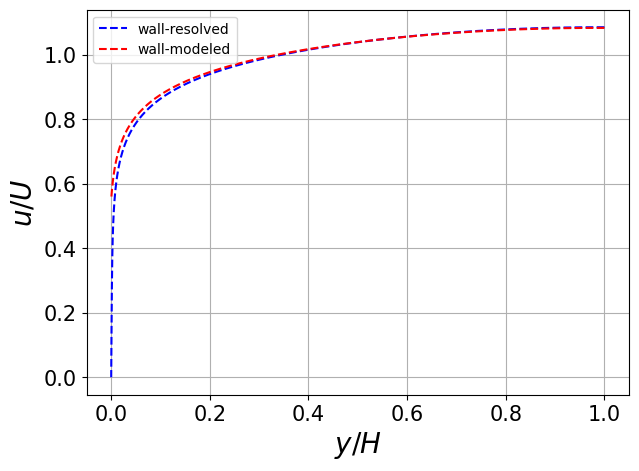
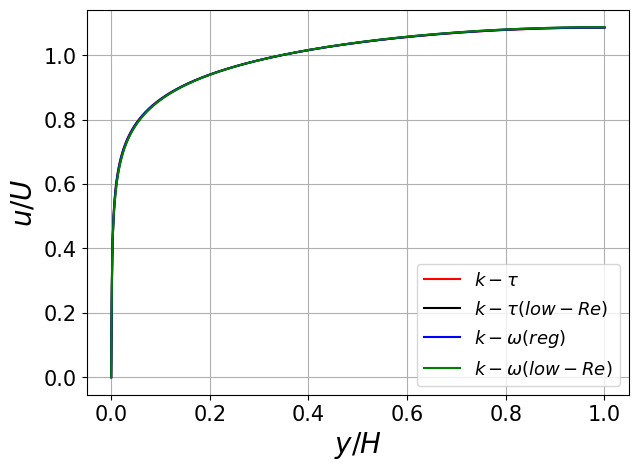
typo fix and polishing

diff --git a/source/tutorials/multi_rans.rst b/source/tutorials/multi_rans.rst
@@ -14,7 +14,7 @@ Nek5000 tools, procedures and user routines including,
  * ``exo2nek`` for importing third party mesh file to Nek5000
  * ``reatore2`` for converting ASCII Nek5000 mesh to binary format
  * ``gencon`` for generating mesh connectivity file
- * ``wiremesher`` for generating wire-wrapped pin bundle
+ * ``wiremesher`` for generating wire-wrapped pin bundle mesh
  * ``nekamg_setup`` for generating algebraic multi-grid solver (AMG) files
  * :math:`k-\tau` RANS simulation setup 
  *  ``NekNek`` setup
@@ -42,7 +42,7 @@ Extract the above tar file and navigate to the ``inlet_bundle`` (parent) directo
 	tar -xvf inlet_bundle.tar
 	cd inlet_bundle
 	
-It has the following structure, discussed in detail in the following sections:
+It has the following directories and files, discussed in detail in the following sections:
 
  * ``inletMesh`` --> Directory containing inlet mesh related files.
  * ``bundleMesh`` --> Directory containing pin-wire bundle mesh related files.
@@ -73,9 +73,13 @@ wire-wrapped pin bundle, as shown:
 The geometry is non-dimensionalized with respect to the pin diameter, :math:`D`. 
 Axial extent of the inlet nozzle component is :math:`z/D=[-4.75,0.25]` and the wire-pin bundle axial dimensions
 are :math:`z/D=[0,12.5]`.  The two components, therefore, have an axial overlap of :math:`\Delta z/D= 0.25`,
-while the lateral dimensions are conformal. Users should note that a reasonable overlap in the computational domains is imperative for a 
-robust ``NekNek`` simulation. As a general rule, increasing the extent of overlap will render more stability
-to the coupled solver. Pitch-to-diameter ratio of the wire-pin bundle is 1.13 and the wire diameter is 
+while the lateral dimensions are conformal. 
+
+:Note:
+	A reasonable overlap in the computational domains is imperative for a robust ``NekNek`` simulation.
+	As a general rule, increasing the extent of overlap will render more stability to the coupled solver.
+
+Pitch-to-diameter ratio of the wire-pin bundle is 1.13 and the wire diameter is 
 :math:`D_w=0.12875D`. To prevent sharp corners, a fillet of diameter :math:`0.05 D` is introduced between the 
 pin and the wire and the wire is slightly submerged in the pin by a distance of :math:`0.025D_w`.
 The side length of the hexagonal bundle is :math:`1.865D` and the diameter of the inlet nozzle boundary 
@@ -98,19 +102,19 @@ is specified on all remaining boundaries.
 
 .. table:: Flow and Thermal Properties 
 
-   +----------------------------+--------------------------------+
-   |:math:`Re_{in}`             |60000                           |
-   +----------------------------+--------------------------------+
-   |:math:`Re_{b}`              |10000 (approx)                  |
-   +----------------------------+--------------------------------+
-   |:math:`\nu^*`               |3.125e-5                        |
-   +----------------------------+--------------------------------+
-   |:math:`Pr`                  |0.005                           |
-   +----------------------------+--------------------------------+
-   |:math:`Pe`                  |160                             |
-   +----------------------------+--------------------------------+
-   |:math:`Pr_t`                |1.5                             |
-   +----------------------------+--------------------------------+
+   +--------------------------------------------------+--------------------------------+
+   |Inlet Reynolds number, :math:`Re_{in}`            |60000                           |
+   +--------------------------------------------------+--------------------------------+
+   |Bundle Reynolds number, :math:`Re_{b}`            |10000 (approx)                  |
+   +--------------------------------------------------+--------------------------------+
+   |Dimensionless Kinematic visocity, :math:`\nu^*`   |3.125e-5                        |
+   +--------------------------------------------------+--------------------------------+
+   |Prandtl Number, :math:`Pr`                        |0.005                           |
+   +--------------------------------------------------+--------------------------------+
+   |Peclet Number, :math:`Pe`                         |160                             |
+   +--------------------------------------------------+--------------------------------+
+   |Turbulent Prandtl number, :math:`Pr_t`            |1.5                             |
+   +--------------------------------------------------+--------------------------------+
 
 ..............................
 Mesh Generation
@@ -123,7 +127,7 @@ Inlet Nozzle (exo2nek)
 A third-party meshing tool (e.g., ANSYS ICEM) is required for generating the mesh for the inlet component,
 which must be saved as an ``EXODUS II (.exo)`` mesh file. Nek5000 offers the ``exo2nek`` mesh conversion tool
 for converting an ``.exo`` mesh file to ``.re2`` format. Ensure that the ``exo2nek`` tool is compiled, available
-in the  ``Nek5000`` directory:
+in the  ``Nek5000/tools`` directory:
 
 .. code-block:: console
 
@@ -292,7 +296,7 @@ control the mesh resolution and contribute towards a successful mesh, include:
  * ``Col`` --> Controls the resolution in the azimuthal direction.
  * ``Row`` --> Controls the resolution in radial direction. 
  * ``Rowdist`` --> Controls layer width distribution percentage in radial direction, from interior to pin wall. Must add up to 100 and entries must be equal to ``Row``.
- * ``Lay`` --> Controls resolution in axial direction. Specifies number of axial elements in length equal to 60 degree rotation of wire.  
+ * ``Lay`` --> Controls resolution in axial direction. Specifies number of elements in axial length equal to 60 degree rotation of wire.  
 
 The mesher is initiated by simply running the ``doall_binary`` bash file. Ensure that both Matlab and Python 
 (tested with Python 3.8) are active before launching the script and that Fortran compilers are available. 
@@ -315,7 +319,7 @@ ASCII mesh file for Nek5000. Convert this into the binary format by running ``re
 	bundle
 	
 We finally obtain the ``bundle.re2`` file which contains the pin-wire bundle mesh for Nek5000 run. Boundary IDs
-are assigned by the wire mesher as:
+are assigned by the ``wiremesher`` as:
 
  * 1 --> Fuel pin walls
  * 2 --> Bundle hexagonal (outer) walls
@@ -456,9 +460,11 @@ Parameter File (.par)
 	diffusivity = -32000.0
 	residualTol = 1.0e-6
 	
-Both parameter files are identical, except for one important difference. If the user wants to restart the case from
+Both parameter files are identical, except for one important difference. To restart the case from
 any given time, separate restart file names should be specified to the ``startFrom`` parameter. It is critical that the
-properties and time step size are identical for both ``.par`` files.
+properties and time step size are identical for both ``.par`` files. Values are assigned in dimensionless form;
+density is set to unity, viscosity and diffusivity are set to :math:`1/\nu^*` and conductivity to Peclet number 
+(-ve sign indicates that solver is run in dimensionless form).
 
 Note that given the large size of meshes, the ``preconditioner`` must be set to ``semg_amg``. This invokes the algebraic
 multigrid solver for pressure instead of the default ``XXT`` solver.
@@ -505,7 +511,7 @@ Following headers are required at the beginning of ``.usr`` file for loading RAN
 	end
 	
 ``ngeom`` specifies the number of overlapping Schwarz-like iterations, while ``ninter`` controls the time 
-extrapolation order of boundary conditions of the overlapping interface. ``ninter=1`` is unconditionally 
+extrapolation order of boundary conditions at the overlapping interface. ``ninter=1`` is unconditionally 
 stable, while a higher temporal order will typically require more iterations for stability (``ngeom>2``). 
 For computational savings, we maintain first order temporal extrapolation for this tutorial. 
 ``nfld_neknek`` specifies the number of total field arrays that are transferred between the two meshes 
@@ -603,16 +609,17 @@ Boundary Condition specification and RANS initialization is performed in ``usrda
 	end
 
 ``NekNek`` solver launches two Nek5000 sessions simultaneously and field data transfer is performed between the
-two sessions after each time iteration. Each session is assigned a unique id, stored in the variable ``idsess``.
+two sessions on each time iteration. Each session is assigned a unique id, stored in the variable ``idsess``.
 Here, ``idsess=0`` is assigned to the inlet component solve and ``idsess=1`` to bundle component. Boundary 
 conditions are assigned using this variable for each component, as shown above. 
 
-Recall the boundary IDs assigned to each component, described in the preceding section. Character codes
-for different boundary conditions are stored in the ``cbc`` array. Their detailed description can be found in
-:ref:`boundary-conditions`. For each component, the nested loops go through all elements and their faces and
-populates ``cbc`` array for all fields based on mesh assigned boundary IDs. Note that ``int`` boundary condition
-must be assigned to the overlapping surfaces on the inlet and bundle components. ``int`` condition is replaced 
-internally with Dirichlet boundary conditions subsequently by Nek5000. Insulated 
+Recall the boundary IDs assigned to each component during the mesh generation process, described in the preceding section.
+Character codes for different boundary conditions are stored in the ``cbc`` array. Their detailed description can be found in
+:ref:`boundary-conditions`. For each component, the nested loops go through all elements and their faces, populating
+``cbc`` array for all fields based on mesh assigned boundary IDs. Note that ``int`` boundary condition
+must be assigned to the overlapping surfaces of the inlet and bundle components. ``int`` condition is replaced 
+internally with Dirichlet boundary conditions subsequently by Nek5000. Flux boundary condition, ``f``, is assigned to
+pin walls for temperature field while insulated, ``I``, is assigned to all other walls.
 
 With regards to RANS initialization; ``m_id=4`` selects the :math:`k-\tau` RANS model and ``w_id=2`` selects the
 wall distance computing algorithm. :math:`k` and :math:`\tau` fields are stored in the 3rd and 4th index, respectively, 
@@ -698,9 +705,10 @@ to the basic :ref:`rans` case:
 	return
 	end
 	
-Note that either component does not have any volumetric source heat source and hence ``qvol=0`` for ``ifield .eq. 2``.
+Note that either component does not have any volumetric source heat source and hence ``qvol=0`` for temperature
+field (``ifield.eq.2``).
 
-Initial conditions are specified in ``useric``. Similar values are assigned to both components and thus, the routine
+Initial conditions are specified in ``useric``. Similar values are assigned to both components and, thus, the routine
 implementation is straightforward. Temperature is initalized to 1 for both components.
 
 .. code-block:: console
@@ -731,10 +739,10 @@ implementation is straightforward. Temperature is initalized to 1 for both compo
 	end
 
 Boundary conditions are assigned in ``userbc``. For the inlet component, inlet conditions are assigned using data
-generated from RANS simulation in a pipe with idential diameter as the inlet surface. The data is stored in the 
+generated from RANS simulation in a pipe with identical diameter as the inlet surface. The data is stored in the 
 ``InletProf.dat`` file which contains axial velocity, :math:`k` and :math:`\tau` information as a function of
 radial wall distance. Two plugin subroutines are required, which perform spline interpolation of the data to the 
-inlet surface, viz., ``getInletProf`` and ``init_prof``. These are provided for the user in the ``inlet_bundle.usr``
+inlet mesh, viz., ``getInletProf`` and ``init_prof``. These are provided for the user in the ``inlet_bundle.usr``
 file and can be used without modification. The usage is shown below:
  
 .. code-block:: console
@@ -808,14 +816,14 @@ limited to inlet radius to avoid spline from extrapolating. Inlet component is i
 inlet surface with its boundary ID, ``id_face.eq.2``.
 
 Temperature flux must also be assigned in ``userbc`` on the pin surface walls. As mentioned earlier, non-dimensional
-unit heat flux is assigned from half axial length of the bundle (``zmid``). A smoothed flux profile is imposed using
+unit heat flux is assigned from half axial length of the bundle (``zmid``). A smoothed axial flux profile is imposed using
 ``tanh`` step function as shown. Flux on all remaining walls is zero. 
  
 ..............................
 SIZE file
 ..............................
 
-The ``SIZE`` file used for this tutorial is inlcuded in the provided tar file. The user needs to ensure that the
+The ``SIZE`` file used for this tutorial is included in the provided tar file. The user needs to ensure that the
 auxiliary fields specified in the SIZE file is at minimum ``ldimt=3`` for RANS. Further, ``nsessmax`` must be
 set to 2 for ``NEKNEK`` simulation. Other details on the contents of the ``SIZE`` file can be found 
 :ref:`here<case_files_SIZE>`.
@@ -833,10 +841,10 @@ The command in the script that launches the ``NEKNEK`` job is
 
 	neknek inlet bundle $((ntpn*nodes/2)) $((ntpn*nodes/2))
 	
-Here, ``nodes`` variable is the user input on number of nodes. ``ntpn`` is the number of processors per node. First two
-parameters are the names of the component meshes and the following two parameters specify the number of total threads
-used for each session, respectively. We use equal number of threads for this turorial, but the user may modify the
-distribution of threads as needed. The script can be adopted suitably for the cluster being used. On Sawtooth cluster, 
+Here, ``nodes`` variable is the user input on number of nodes assigned for the job. ``ntpn`` is the number of processors/threads 
+per node. First two parameters are the names of the component meshes and the following two parameters specify the number of total
+threads used for each session, respectively. We use equal number of threads for this turorial, but the user may modify the
+distribution of threads as needed. The script can be adopted suitably for any cluster being used. On Sawtooth cluster, 
 the script is launched as follows:
 
 .. code-block:: console 
@@ -844,11 +852,11 @@ the script is launched as follows:
 	./neksaw inlet_bundle 40 4 30
 	
 The above runs ``NEKNEK`` job on 40 nodes (20 dedicated to each session) for 4 hours and 30 minutes. Remember to specify
-the project name before launching, assigned to ``prj`` variable in the script.
+the project name before launching, assigned to ``prj`` variable in the ``neksaw`` script file.
 
 On the first run, Nek5000 will generate files for setting up the AMG (algebraic multi-grid) solver with the suffix
 ``amgdmp_p.dat``, ``amgdmp_i.dat`` and ``amgdmp_j.dat`` for each component. Run the ``nekamg_setup`` tool to 
-create the setup files. The prompts will appear as shown:
+create the ANG setup files. The prompts will appear as shown:
 
 .. code-block:: console
 
@@ -873,7 +881,7 @@ create the setup files. The prompts will appear as shown:
 	Choice:
 	0
 
-User may choose any of the coarsening solver and interpolation methods available which succeffully converges.
+User may choose any of the coarsening solver and interpolation methods available which lead to successful convergence.
 For this tutorial we choose HMIS and classical interpolation for both components. 
 
 .. code-block:: console
@@ -883,13 +891,13 @@ For this tutorial we choose HMIS and classical interpolation for both components
 	
 Repeat the steps for the bundle component. Upon completion three files will be written containing AMG matrices.
 
-On the next run, Nek5000 will run normally and the user may proceed with the simulation.
+On the next run, Nek5000 will advance normally and the user may proceed with the simulation.
 
 ..............................
 Helpful Tips
 ..............................
 
-The following tips may be helpful to make the simulations tractable:
+The following tips may be helpful to make the simulations more tractable:
 
  * Commence with a small time step size and high viscosity value (low Re) to stabilize the pressure solver
    during initial transients.
@@ -904,8 +912,8 @@ The following tips may be helpful to make the simulations tractable:
 	targetCFL=4.0
 	extrapolation = OIFS
 	
-It is necessary to specify target CFL for the OIFS solver to prescribe the number of extrapolation iterations.
-
+It is necessary to specify target CFL for the OIFS solver. It calculates the number of extrapolation iterations
+based on ``targetCFL`` value.
 
 ..............................
 Results

diff --git a/source/tutorials/rans.rst b/source/tutorials/rans.rst
@@ -302,7 +302,9 @@ All required case files for RANS wall-resolved channel simulation can be downloa
 Results
 ..............................
 
-For reference, the results obtained from the :math:`k-\tau` RANS wall-resolved simulation are shown below:
+For reference, the results obtained from the :math:`k-\tau` RANS wall-resolved simulation are shown below and
+compared with results from low-Re :math:`k-\tau` (``m_id=5``), regularized :math:`k-\omega` (``m_id=0``) and low-Re regularized 
+:math:`k-\omega` (``m_id=1``) models.
 
 .. _fig:streamwise_vel:
 
@@ -310,20 +312,15 @@ For reference, the results obtained from the :math:`k-\tau` RANS wall-resolved s
    :align: center
    :figclass: align-center
 
-   Normalized stream-wise velocity from wall-resolved :math:`k-\tau` RANS simulation
+   Normalized stream-wise velocity from different RANS models.
    
 .. _fig:chan_tke:
 
-.. figure:: rans/k.png
+.. figure:: rans/k1.png
    :align: center
    :figclass: align-center
 
-   Normalized TKE from wall-resolved :math:`k-\tau` RANS simulation
+   Normalized TKE from different RANS models.
    
-.. _fig:chan_tau:
-
-.. figure:: rans/tau.png
-   :align: center
-   :figclass: align-center
-
-   Normalized :math:`\tau` from wall-resolved :math:`k-\tau` RANS simulation
+RANS models may be simply switched by using the appropriate ``m_id`` in ``usrdat2``. The low-Re versions of the model should 
+be employed only for capturing the near wall TKE peak. It does not have an effect on the velocity profile. 
